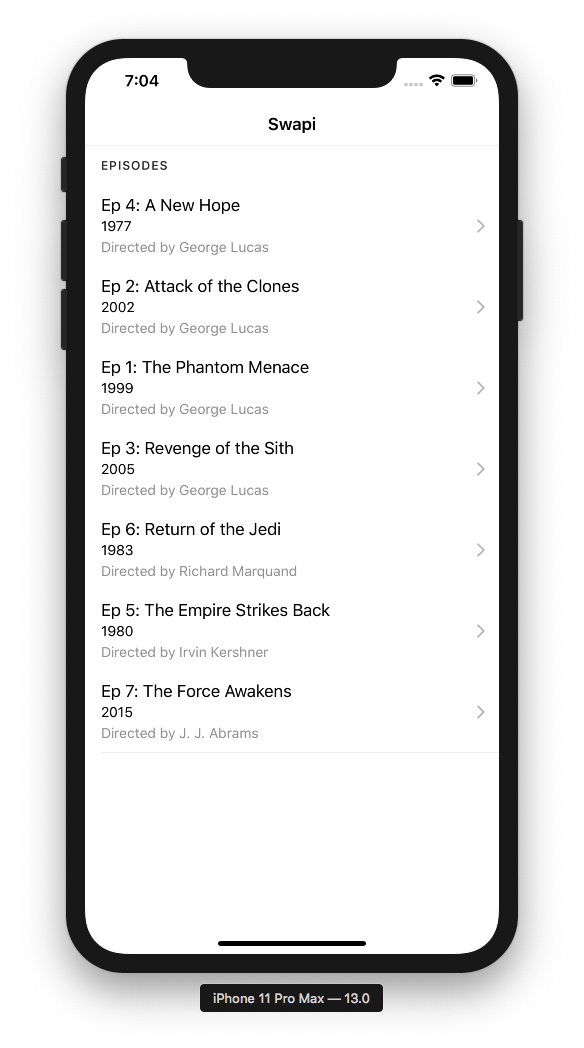
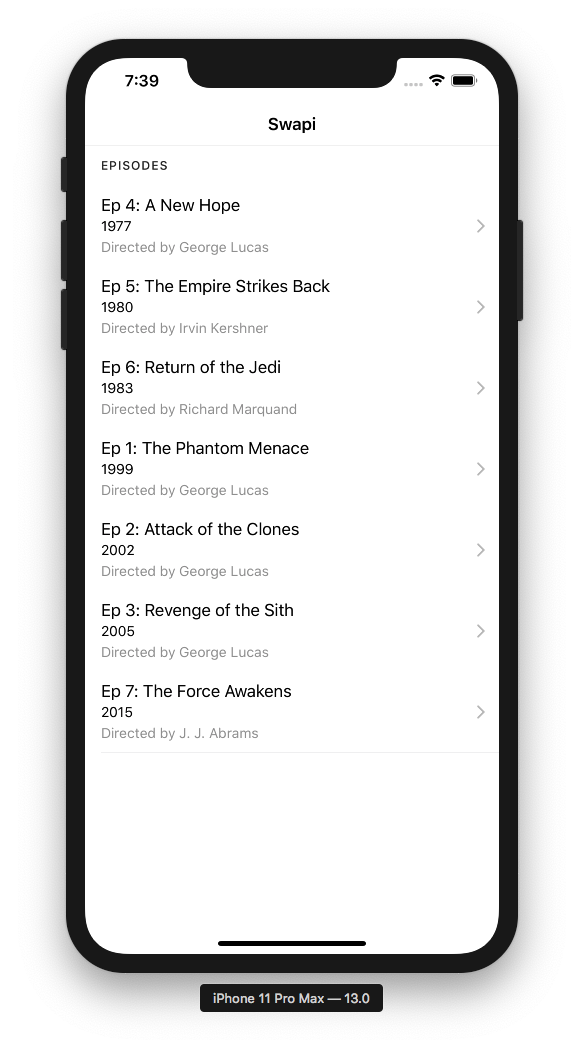
Fixed sorting, added loading placeholders on Film

diff --git a/src/app/film/film.page.html b/src/app/film/film.page.html
@@ -32,7 +32,12 @@
         <li *ngFor="let character of characters">
           {{ character.name }}
         </li>
-        <li *ngIf="!characters">Loading...</li>
+        <div *ngIf="!characters">
+          <li *ngFor="let i of [0,1,2,3,4,5,6,7,8,9,10,11,12,13,14,15]">
+              <ion-skeleton-text animated style="width: 50%">
+              </ion-skeleton-text>
+          </li>
+        </div>
       </ul>
     </ion-card-content>
   </ion-card>
@@ -45,7 +50,12 @@
         <li *ngFor="let item of planets">
           {{ item.name }}
         </li>
-        <li *ngIf="!planets">Loading...</li>
+        <div *ngIf="!planets">
+          <li *ngFor="let i of [0,1,2]">
+              <ion-skeleton-text animated style="width: 50%">
+              </ion-skeleton-text>
+          </li>
+        </div>
       </ul>
     </ion-card-content>
   </ion-card>
@@ -58,7 +68,12 @@
         <li *ngFor="let item of starships">
           {{ item.name }}
         </li>
-        <li *ngIf="!starships">Loading...</li>
+        <div *ngIf="!starships">
+          <li *ngFor="let i of [0,1,2,3,4,5,6,7,8,9,10]">
+              <ion-skeleton-text animated style="width: 50%">
+              </ion-skeleton-text>
+          </li>
+        </div>
       </ul>
     </ion-card-content>
   </ion-card>
@@ -71,7 +86,12 @@
         <li *ngFor="let item of vehicles">
           {{ item.name }}
         </li>
-        <li *ngIf="!vehicles">Loading...</li>
+        <div *ngIf="!vehicles">
+          <li *ngFor="let i of [0,1,2,3]">
+              <ion-skeleton-text animated style="width: 50%">
+              </ion-skeleton-text>
+          </li>
+        </div>
       </ul>
     </ion-card-content>
   </ion-card>
@@ -84,7 +104,12 @@
         <li *ngFor="let item of species">
           {{ item.name }}
         </li>
-        <li *ngIf="!species">Loading...</li>
+        <div *ngIf="!species">
+          <li *ngFor="let i of [0,1,2,3]">
+              <ion-skeleton-text animated style="width: 50%">
+              </ion-skeleton-text>
+          </li>
+        </div>
       </ul>
     </ion-card-content>
   </ion-card>

diff --git a/src/app/_services/storage/storage.service.ts b/src/app/_services/storage/storage.service.ts
@@ -52,7 +52,7 @@ export class StorageService {
 
   public async setFilms(films: Films) {
     await this.storage.set(FILMS_KEY, films.results);
-    this.films.next(films.results);
+    this.films.next(films.results.sort(this.sortFilms));
   }
 }
 

diff --git a/README.md b/README.md
@@ -3,13 +3,22 @@
 ![Home](https://raw.githubusercontent.com/pierremtb/ionic-swapi/master/screenshots/home.png)
 ![Film](https://raw.githubusercontent.com/pierremtb/ionic-swapi/master/screenshots/film.png)
 
-## Running
+## Setting up
 ```console
 $ git clone https://github.com/pierremtb/ionic-swapi
 $ cd ionic-swapi
 $ npm install
+```
+
+## Running (web)
+```console
+$ ionic serve
+```
+
+## Running (iOS)
+```console
 $ npm build --prod
-$ ionic cap sync
+$ ionic cap sync ios
 $ ionic cap open ios
 ** Run on simulator or device in XCode **
 ```
